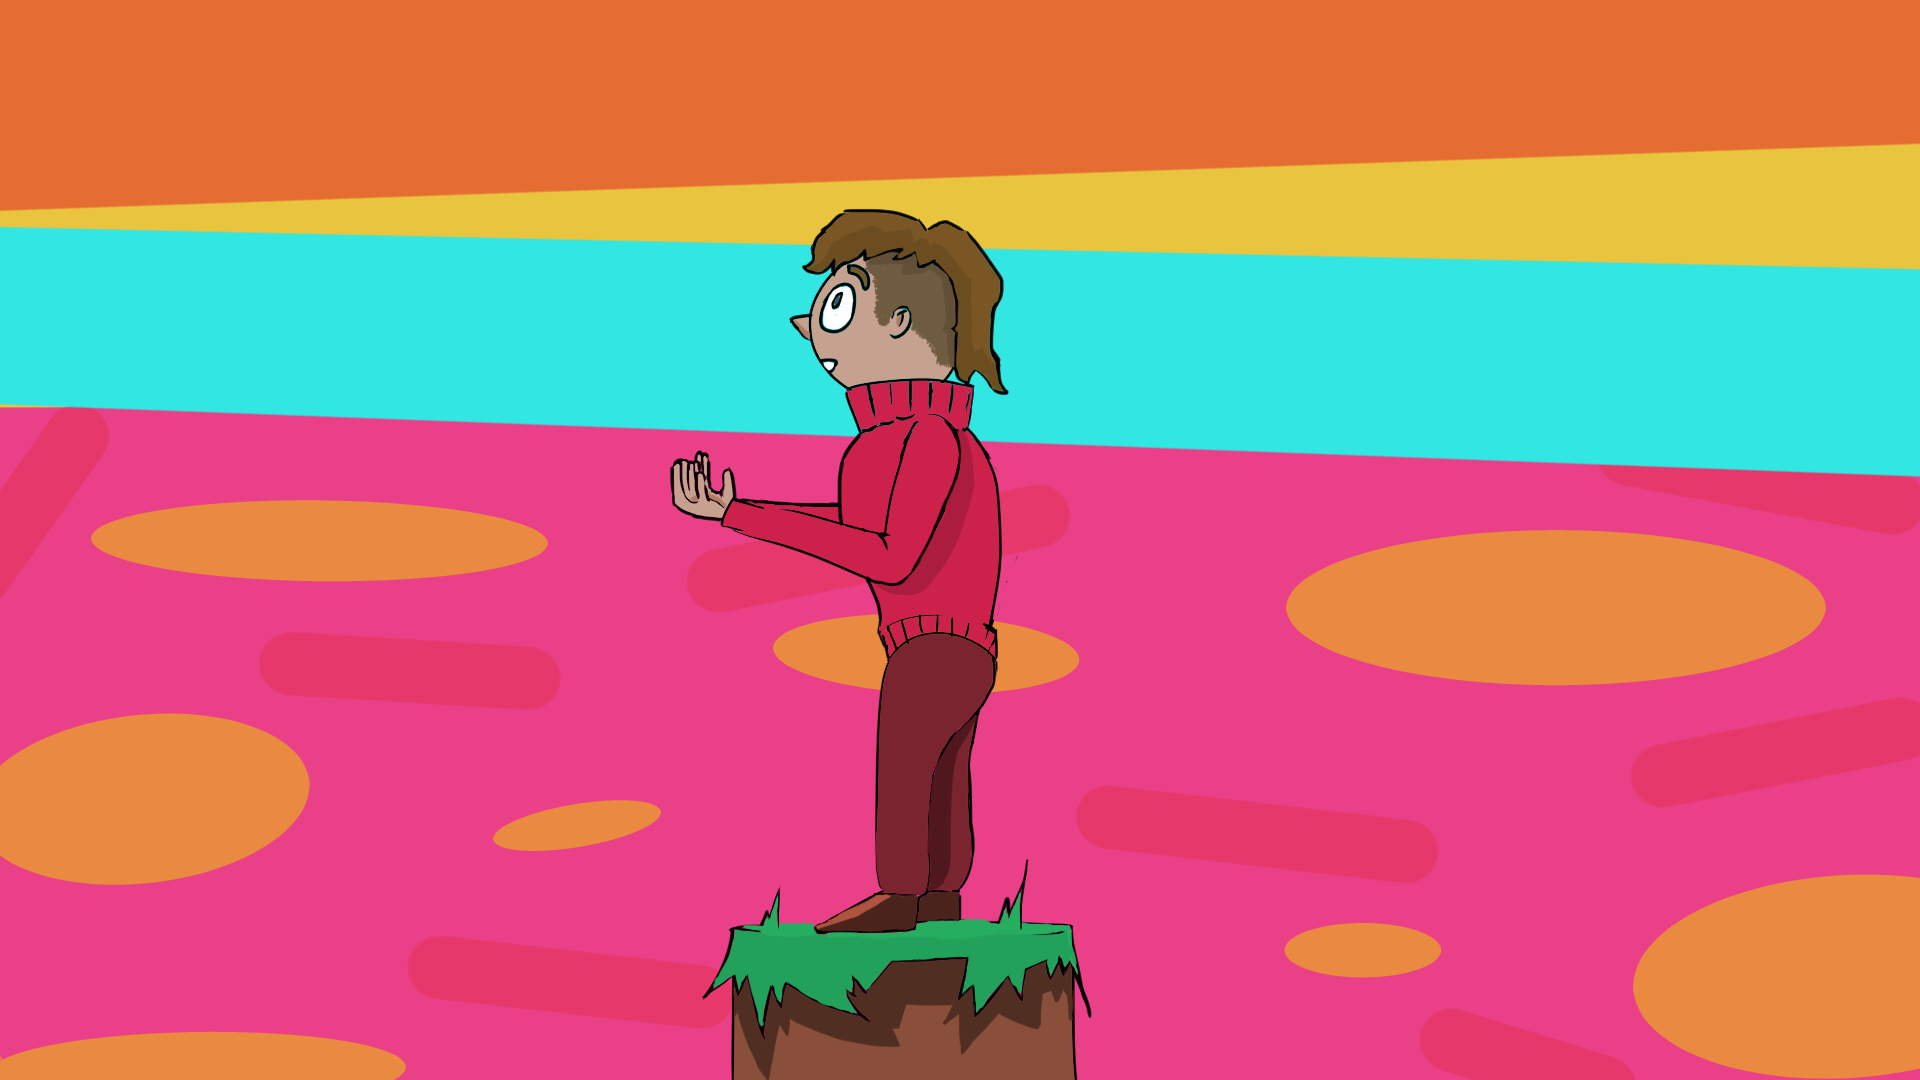
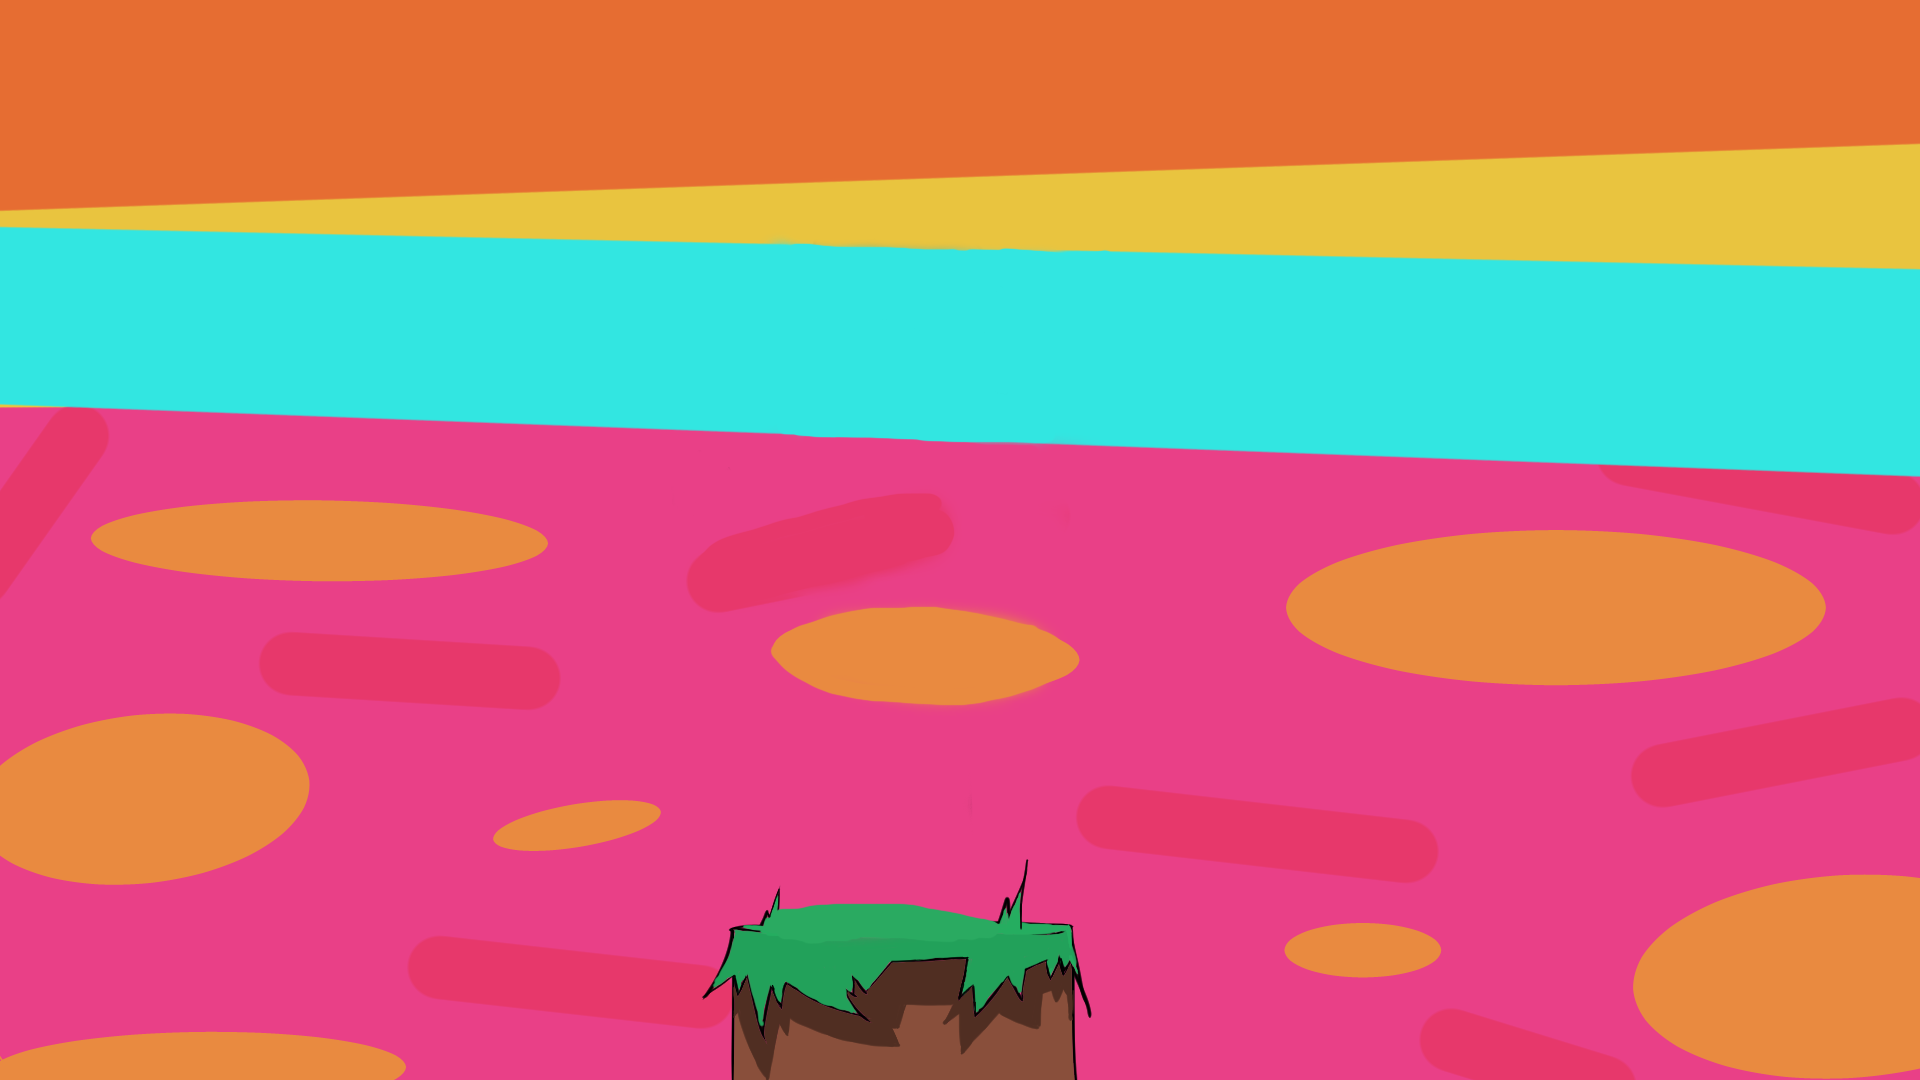
Nouvelle mise à jour
Nouvelle mise à jour du clipWeb

Changed region(s): [[0.3438, 0.1833, 0.5625, 0.8861]]

diff --git a/clips/claes_louis/sketch.js b/clips/claes_louis/sketch.js
@@ -1,4 +1,6 @@
 var fond;
+//var perso
+var chara;
 //var bulles
 var bulles;
 //var fleurs roses
@@ -31,6 +33,8 @@ let sequencer
 function preload(){
 
 	fond = loadImage("fond.png");
+	//personnage
+	chara = new ImgDisplayer("chara.png",-500,0,1110,900);
 	//bulles
 	bulles = new ImgDisplayer("bulles-couleur.png", 450,250, 576,200);
 	//fleurs roses
@@ -62,9 +66,9 @@ function preload(){
 }
 
 function setup(){
-	createCanvas(1920,1080);
+	createCanvas(windowWidth, windowHeight);
 	//séquenceur
-	sequencer = new Sequencer(audiopath , 40 , false);
+	sequencer = new Sequencer(audiopath , 40 , true);
 	sequencer.registerSequence({
 		name : "bulles",
 		start : 8+1/2,
@@ -79,12 +83,25 @@ function setup(){
 
 	});
 	sequencer.registerSequence({
+		name : "chara",
+		start : 1,
+		onStart : () => {
+			chara.isVisible = true ; 
+		},
+		stop : 130,
+		onStop : () => {
+			console.log("stop");
+			chara.isVisible = false ;
+	    },
+
+	});
+	sequencer.registerSequence({
 		name : "fleurrose1",
 		start : 12,
 		onStart : () => {
 			fleurrose1.isVisible = true ; 
 		},
-		stop : 127,
+		stop : 65,
 		onStop : () => {
 			console.log("stop");
 			fleurrose1.isVisible = false ;
@@ -97,7 +114,7 @@ function setup(){
 		onStart : () => {
 			fleurrose2.isVisible = true ; 
 		},
-		stop : 127,
+		stop : 66,
 		onStop : () => {
 			console.log("stop");
 			fleurrose2.isVisible = false ;
@@ -110,7 +127,7 @@ function setup(){
 		onStart : () => {
 			fleurrose3.isVisible = true ; 
 		},
-		stop : 127,
+		stop : 67,
 		onStop : () => {
 			console.log("stop");
 			fleurrose3.isVisible = false ;
@@ -123,7 +140,7 @@ function setup(){
 		onStart : () => {
 			fleurrose4.isVisible = true ; 
 		},
-		stop : 127,
+		stop : 68,
 		onStop : () => {
 			console.log("stop");
 			fleurrose4.isVisible = false ;
@@ -136,7 +153,7 @@ function setup(){
 		onStart : () => {
 			fleurrose5.isVisible = true ; 
 		},
-		stop : 127,
+		stop : 69,
 		onStop : () => {
 			console.log("stop");
 			fleurrose5.isVisible = false ;
@@ -149,7 +166,7 @@ function setup(){
 		onStart : () => {
 			fleurrose6.isVisible = true ; 
 		},
-		stop : 127,
+		stop : 70,
 		onStop : () => {
 			console.log("stop");
 			fleurrose6.isVisible = false ;
@@ -162,7 +179,7 @@ function setup(){
 		onStart : () => {
 			fleurorange1.isVisible = true ; 
 		},
-		stop : 127,
+		stop : 71,
 		onStop : () => {
 			console.log("stop");
 			fleurorange1.isVisible = false ;
@@ -175,7 +192,7 @@ function setup(){
 		onStart : () => {
 			fleurorange2.isVisible = true ; 
 		},
-		stop : 127,
+		stop : 72,
 		onStop : () => {
 			console.log("stop");
 			fleurorange2.isVisible = false ;
@@ -188,7 +205,7 @@ function setup(){
 		onStart : () => {
 			fleurorange3.isVisible = true ; 
 		},
-		stop : 127,
+		stop : 73,
 		onStop : () => {
 			console.log("stop");
 			fleurorange3.isVisible = false ;
@@ -201,7 +218,7 @@ function setup(){
 		onStart : () => {
 			fleurorange4.isVisible = true ; 
 		},
-		stop : 127,
+		stop : 74,
 		onStop : () => {
 			console.log("stop");
 			fleurorange4.isVisible = false ;
@@ -214,7 +231,7 @@ function setup(){
 		onStart : () => {
 			fleurbleue1.isVisible = true ; 
 		},
-		stop : 127,
+		stop : 75,
 		onStop : () => {
 			console.log("stop");
 			fleurbleue1.isVisible = false ;
@@ -227,7 +244,7 @@ function setup(){
 		onStart : () => {
 			fleurbleue2.isVisible = true ; 
 		},
-		stop : 127,
+		stop : 76,
 		onStop : () => {
 			console.log("stop");
 			fleurbleue2.isVisible = false ;
@@ -240,7 +257,7 @@ function setup(){
 		onStart : () => {
 			fleurbleue3.isVisible = true ; 
 		},
-		stop : 127,
+		stop : 77,
 		onStop : () => {
 			console.log("stop");
 			fleurbleue3.isVisible = false ;
@@ -253,7 +270,7 @@ function setup(){
 		onStart : () => {
 			fleurbleue4.isVisible = true ; 
 		},
-		stop : 127,
+		stop : 78,
 		onStop : () => {
 			console.log("stop");
 			fleurbleue4.isVisible = false ;
@@ -266,7 +283,7 @@ function setup(){
 		onStart : () => {
 			fleurbleue5.isVisible = true ; 
 		},
-		stop : 127,
+		stop : 79,
 		onStop : () => {
 			console.log("stop");
 			fleurbleue5.isVisible = false ;
@@ -378,10 +395,18 @@ function setup(){
 	nuage4.speedX = -1.5;
 	nuage5.speedX = 1.5;
 	nuage6.speedX = -1;
+	//vitesse perso
+	chara.speedX = 2.5;
 }
 
 function draw() {
 	background(fond, width, height);
+	//perso
+	chara.draw();
+	if (chara.x > 370) {
+		chara.x = 370;
+	}
+	//nuage
 	nuage1.draw();
 	if (nuage1.x > 2000) {
 		nuage1.x = 0;

diff --git a/clips/claes_louis/index.html b/clips/claes_louis/index.html
@@ -2,10 +2,16 @@
 <html>
 <head>
   <title></title>
-  <script type="text/javascript" src="../../lib/p5/p5.js"></script>
-  <script type="text/javascript" src="../../lib/p5/addons/p5.sound.min.js"></script>
-  <script type="text/javascript" src="../../lib/SequencerJS/dist/bundle.js"></script>
+  <script type="text/javascript" src="../lib/p5/p5.js"></script>
+  <script type="text/javascript" src="../lib/p5/addons/p5.sound.min.js"></script>
+  <script type="text/javascript" src="../lib/sequencer/dist/bundle.js"></script>
   <script type="text/javascript" src="sketch.js"></script>
+  <style type="text/css">
+  	body{
+  		margin : 0 ;
+  		overflow: hidden;
+  	}
+  </style>
 </head>
 <body>
 
